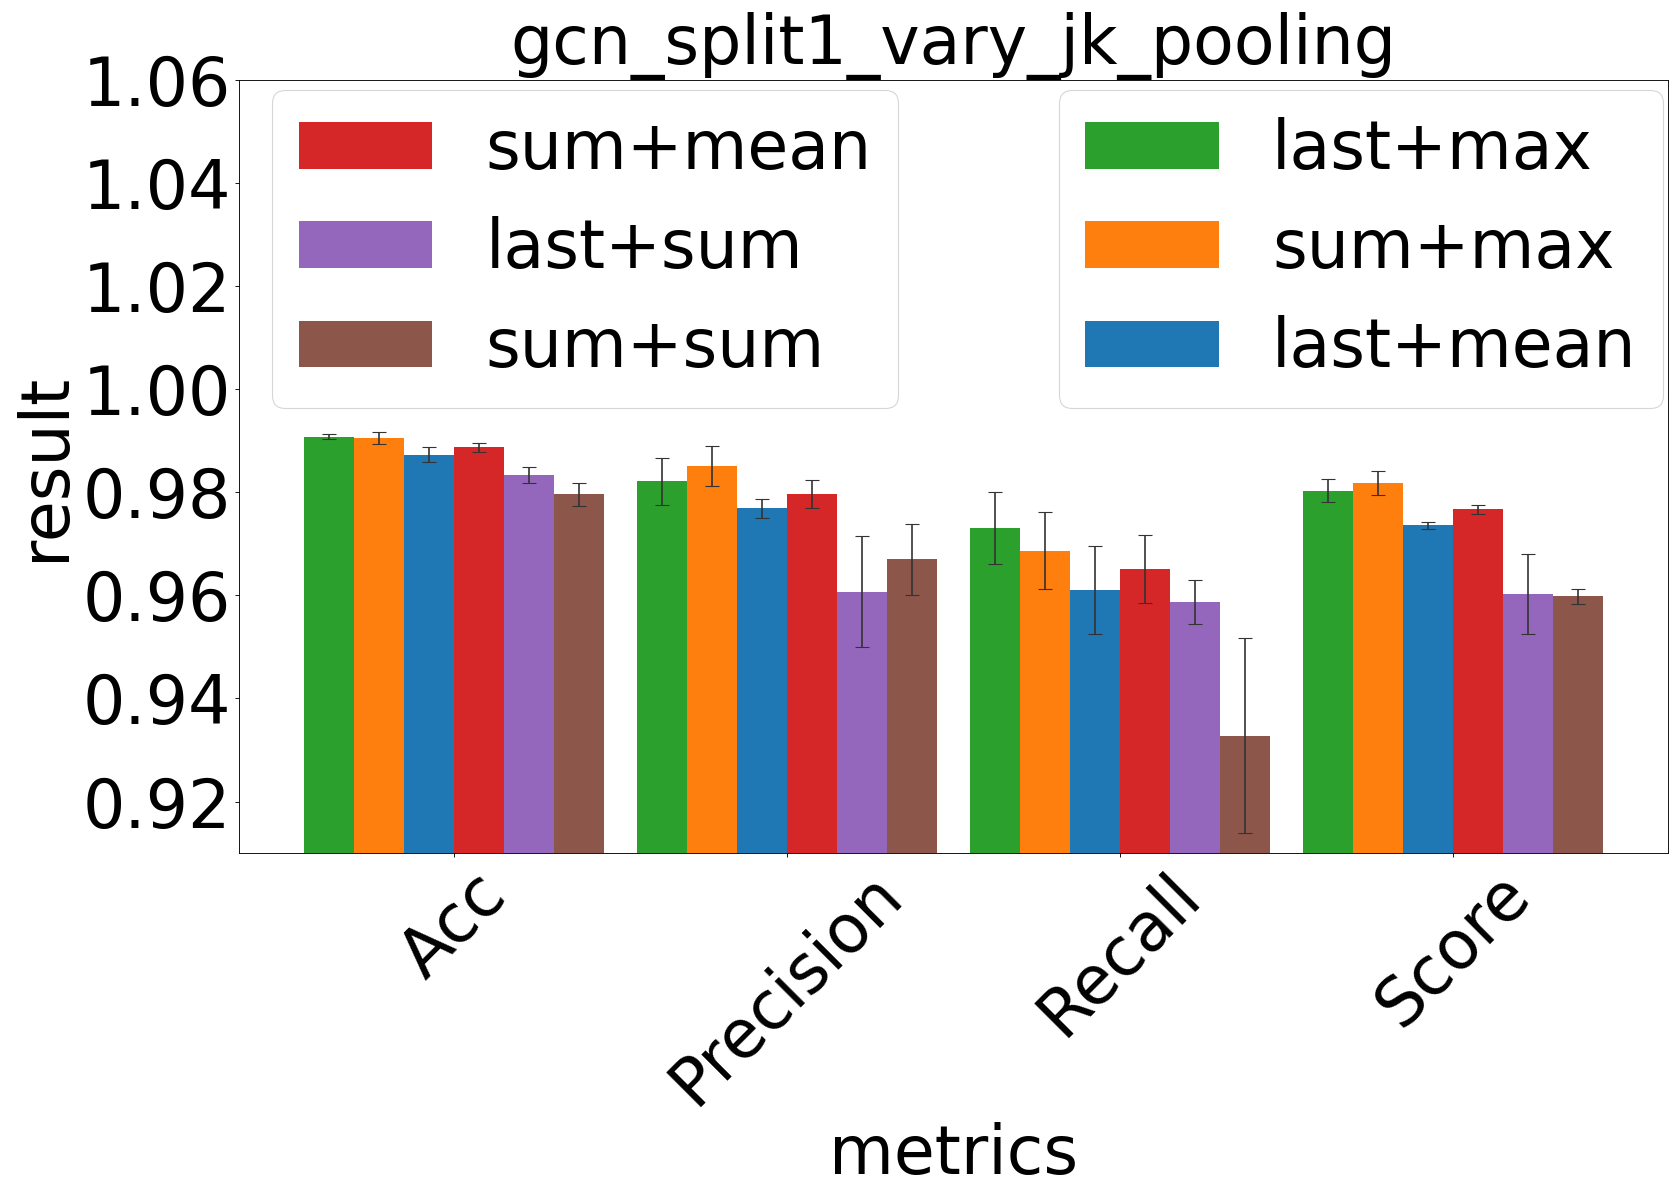
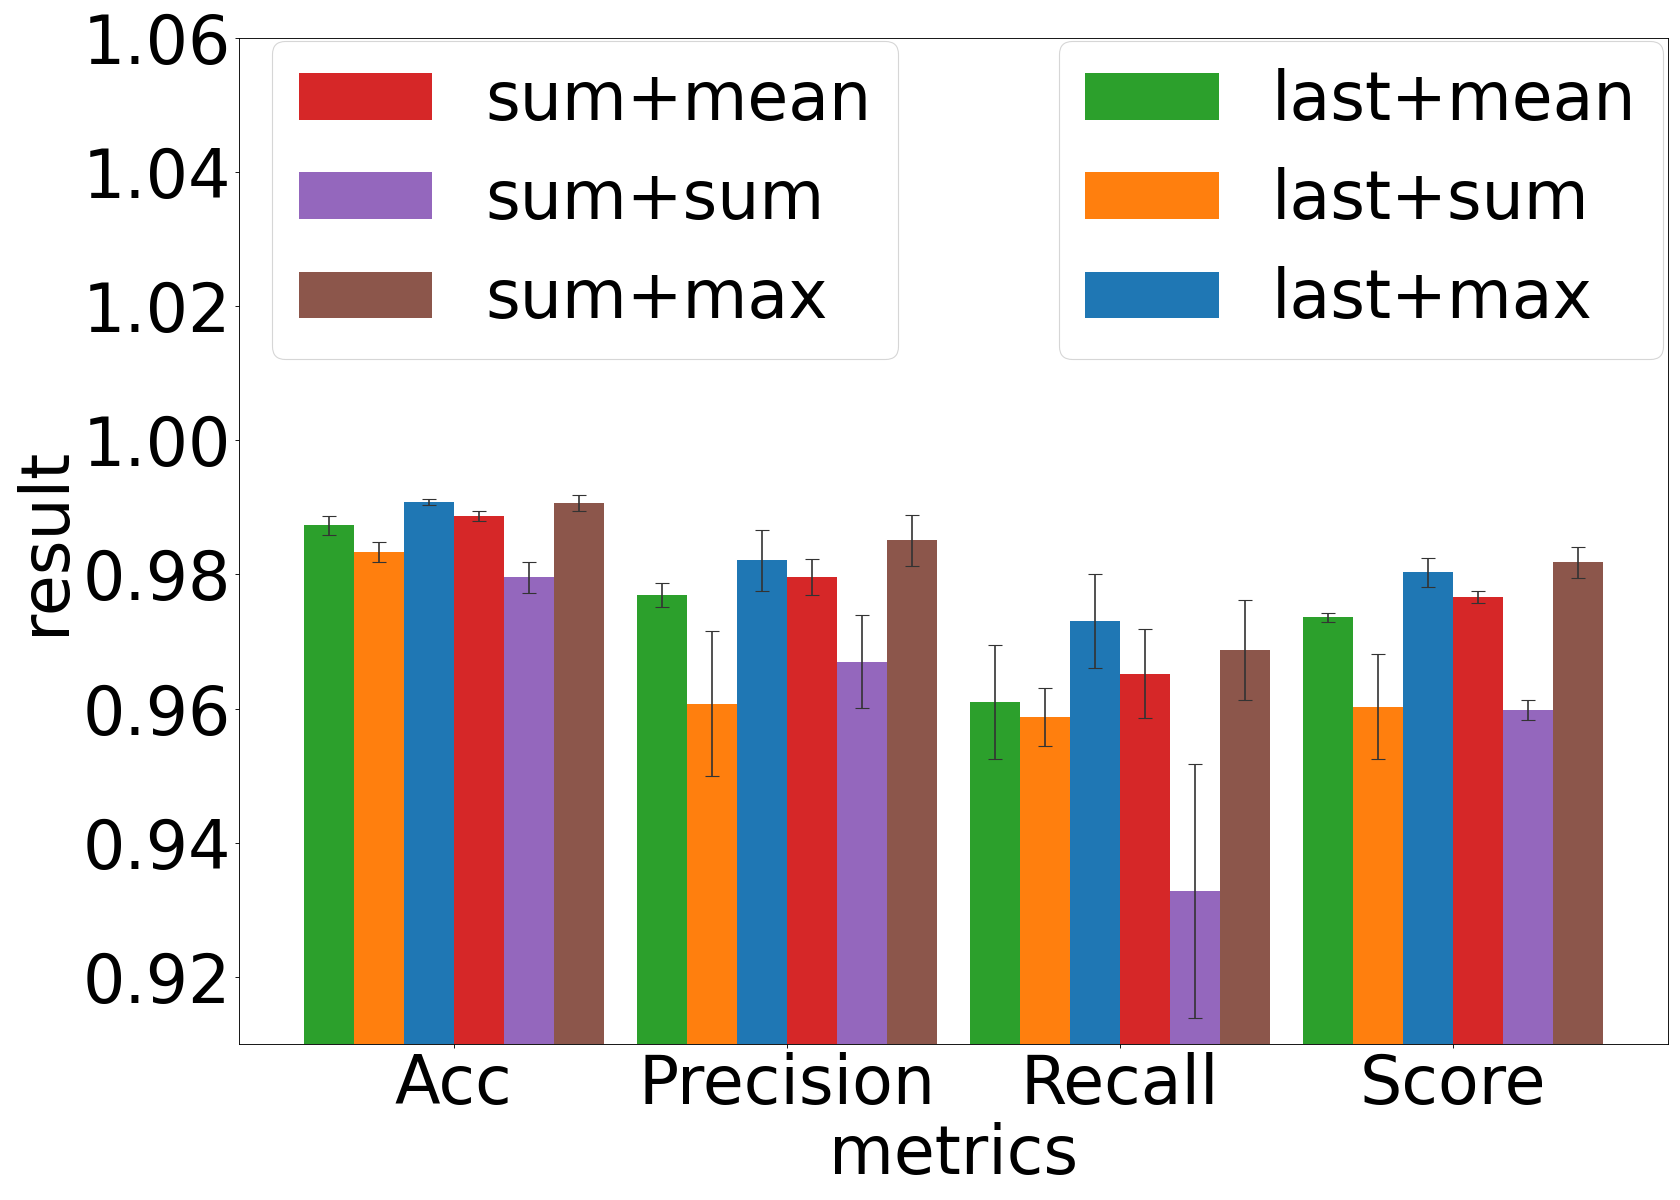
adjust figures

diff --git a/plot_bar.py b/plot_bar.py
@@ -5,7 +5,7 @@ import argparse
 parser = argparse.ArgumentParser()
 parser.add_argument('--with_std', type=int, default=1)
 parser.add_argument('--datafile', type=str, required=True, help='rslt data file')
-parser.add_argument('--readtype', type=str, required=True, help='gat, gcn,gin')
+parser.add_argument('--readtype', type=str, required=True, help='gat, gcn,gin,cad')
 parser.add_argument('--outdir', type=str, default='./figures')
 parser.add_argument('--filename', type=str, default='', help='set the name of the output figure, default for similar to input filename')
 parser.add_argument('--filetype', type=str, default='png')
@@ -16,7 +16,7 @@ y_avg = {}
 y_std = {}
 configs = []
 metrics = []
-if args.readtype in ['gat','gin']:
+if args.readtype in ['gat','gin','cad']:
     with open(f"rslt_data/{args.datafile}", "r") as fin:
         line_cnt = 0
         for line in fin.readlines():
@@ -108,14 +108,14 @@ else:
     bar5 = plt.bar(x_locs+1.5*width, y_avg[configs[4]], width=width, alpha=alpha, color=color_dict['purple'], label=labels[4])
     bar6 = plt.bar(x_locs+2.5*width, y_avg[configs[5]], width=width, alpha=alpha, color=color_dict['brown'], label=labels[5])
 
-plt.xticks(x_locs, labels=xs_str, fontsize=ticks_fontsize, rotation=45)
+plt.xticks(x_locs, labels=xs_str, fontsize=ticks_fontsize, rotation=0)
 plt.yticks(fontsize=ticks_fontsize)
 # plt.ylim(90,100)
 plt.ylim(0.85,1.10)
 if args.datafile == 'gcn_split1_vary_jk_pooling.txt':
     plt.ylim(0.91,1.06)
 figure_title = args.datafile.split('.')[0]
-plt.title(f'{figure_title}', fontsize=fontsize)
+# plt.title(f'{figure_title}', fontsize=fontsize)
 plt.xlabel(f'metrics', fontsize=fontsize)
 plt.ylabel(f'result', fontsize=fontsize)
 a=plt.legend([bar1, bar2, bar3],[labels[0], labels[1], labels[2]], loc="upper right", bbox_to_anchor=(1.02,1.03), fontsize=legend_fontsize)

diff --git a/README.md b/README.md
@@ -47,17 +47,22 @@
 * gat不同jk+pooling组合结果画图：
     ```python
     python plot_bar.py --datafile gat_split1_vary_jk_pooling.txt --readtype gat
-    python plot_bar.py --datafile gat_split2_vary_jk_pooling.txt--readtype gat
+    python plot_bar.py --datafile gat_split2_vary_jk_pooling.txt --readtype gat
     ```
 * gcn不同jk+pooling组合结果画图：
      ```python
     python plot_bar.py --datafile gcn_split1_vary_jk_pooling.txt --readtype gcn
-    python plot_bar.py --datafile gcn_split2_vary_jk_pooling.txt--readtype gcn
+    python plot_bar.py --datafile gcn_split2_vary_jk_pooling.txt --readtype gcn
     ```
 * gin不同jk+pooling组合结果画图：
      ```python
     python plot_bar.py --datafile gin_split1_vary_jk_pooling.txt --readtype gin
-    python plot_bar.py --datafile gin_split2_vary_jk_pooling.txt--readtype gin
+    python plot_bar.py --datafile gin_split2_vary_jk_pooling.txt --readtype gin
+    ```
+* cad不同jk+pooling组合结果画图：
+    ```python
+    python plot_bar.py --datafile cad_split1_vary_jk_pooling.txt --readtype cad
+    python plot_bar.py --datafile cad_split2_vary_jk_pooling.txt --readtype cad
     ```
 
 ### plot_curve.py
